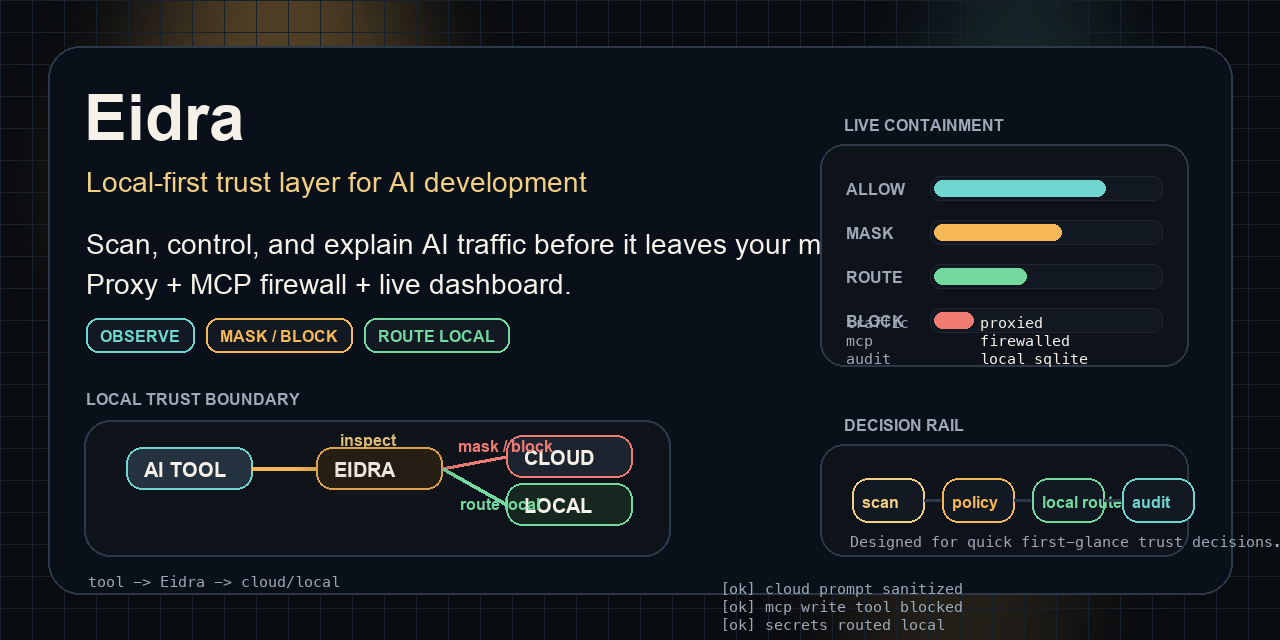
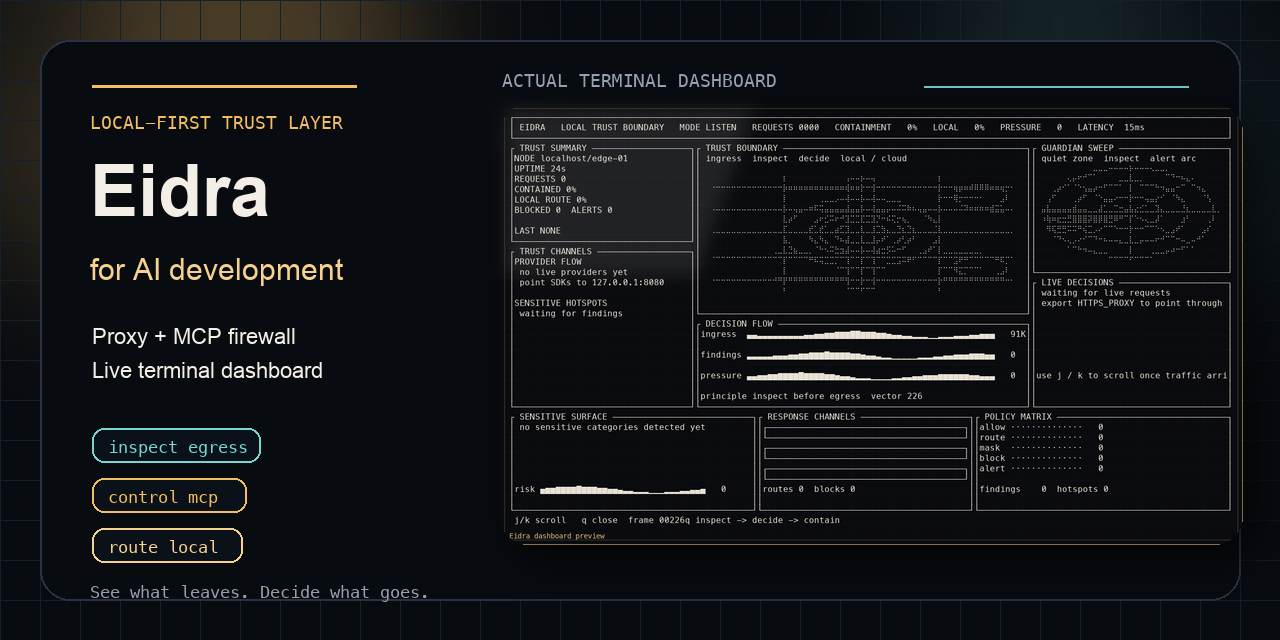
Sanitize example secrets and refresh social preview

Changed region(s): [[0.0, 0.0, 1.0, 1.0]]

diff --git a/scripts/generate_social_preview.py b/scripts/generate_social_preview.py
@@ -3,28 +3,27 @@ from __future__ import annotations
 
 from pathlib import Path
 
-from PIL import Image, ImageDraw, ImageFilter, ImageFont
+from PIL import Image, ImageChops, ImageDraw, ImageFilter, ImageFont, ImageOps
 
 
 ROOT = Path(__file__).resolve().parents[1]
+SOURCE = ROOT / "docs" / "assets" / "social-preview-dashboard.png"
 OUTPUT = ROOT / "docs" / "social-preview.png"
 WIDTH = 1280
 HEIGHT = 640
+
 BG = "#080b10"
-PANEL = "#0e131b"
-PANEL_2 = "#121923"
-BORDER = "#2d3948"
-TEXT = "#f5f1e8"
-MUTED = "#9ea8b6"
-AMBER = "#f6b756"
-AMBER_2 = "#f2cf83"
-TEAL = "#6ed6cf"
-RED = "#ef7b73"
-GREEN = "#74d99f"
+PANEL = "#0b1118"
+BORDER = "#293240"
+TEXT = "#f3efe6"
+MUTED = "#96a1af"
+AMBER = "#f2bd63"
+AMBER_SOFT = "#f6d28e"
+TEAL = "#74d7d2"
 
 
-def load_font(size: int, bold: bool = False, mono: bool = False) -> ImageFont.FreeTypeFont:
-    candidates = []
+def load_font(size: int, *, bold: bool = False, mono: bool = False) -> ImageFont.FreeTypeFont:
+    candidates: list[str] = []
     if mono:
         candidates.extend(
             [
@@ -56,180 +55,126 @@ def load_font(size: int, bold: bool = False, mono: bool = False) -> ImageFont.Fr
     return ImageFont.load_default()
 
 
+def rgba(hex_color: str, alpha: int) -> tuple[int, int, int, int]:
+    hex_color = hex_color.lstrip("#")
+    return tuple(int(hex_color[index : index + 2], 16) for index in (0, 2, 4)) + (alpha,)
+
+
 def rounded_box(draw: ImageDraw.ImageDraw, box, radius, fill, outline=None, width=1):
     draw.rounded_rectangle(box, radius=radius, fill=fill, outline=outline, width=width)
 
 
-def add_glow(base: Image.Image, center: tuple[int, int], radius: int, color: str, alpha: int):
-    glow = Image.new("RGBA", base.size, (0, 0, 0, 0))
-    overlay = ImageDraw.Draw(glow)
+def add_soft_glow(base: Image.Image, center: tuple[int, int], radius: int, color: str, alpha: int):
+    layer = Image.new("RGBA", base.size, (0, 0, 0, 0))
+    overlay = ImageDraw.Draw(layer)
     x, y = center
-    overlay.ellipse(
-        (x - radius, y - radius, x + radius, y + radius),
-        fill=hex_to_rgba(color, alpha),
+    overlay.ellipse((x - radius, y - radius, x + radius, y + radius), fill=rgba(color, alpha))
+    layer = layer.filter(ImageFilter.GaussianBlur(radius=80))
+    base.alpha_composite(layer)
+
+
+def draw_background(base: Image.Image):
+    draw = ImageDraw.Draw(base, "RGBA")
+
+    add_soft_glow(base, (240, 150), 240, AMBER, 70)
+    add_soft_glow(base, (1060, 180), 220, TEAL, 30)
+
+    for x in range(0, WIDTH, 40):
+        draw.line((x, 0, x, HEIGHT), fill=rgba("#14202c", 80), width=1)
+    for y in range(0, HEIGHT, 40):
+        draw.line((0, y, WIDTH, y), fill=rgba("#14202c", 80), width=1)
+
+    outer = (40, 40, WIDTH - 40, HEIGHT - 40)
+    rounded_box(draw, outer, 30, rgba(BG, 220), outline=rgba(BORDER, 255), width=2)
+
+    draw.line((92, 86, 356, 86), fill=rgba(AMBER, 255), width=3)
+    draw.line((924, 86, 1188, 86), fill=rgba(TEAL, 170), width=2)
+
+
+def draw_screenshot(base: Image.Image, screenshot_path: Path):
+    if not screenshot_path.exists():
+        raise FileNotFoundError(f"missing screenshot source: {screenshot_path}")
+
+    screenshot = Image.open(screenshot_path).convert("RGB")
+    screenshot = ImageOps.fit(screenshot, (742, 440), method=Image.Resampling.LANCZOS)
+
+    frame_box = (500, 104, 1242, 544)
+    shadow_box = (516, 120, 1258, 560)
+
+    shadow = Image.new("RGBA", base.size, (0, 0, 0, 0))
+    shadow_draw = ImageDraw.Draw(shadow)
+    shadow_draw.rounded_rectangle(shadow_box, radius=28, fill=rgba("#000000", 160))
+    shadow = shadow.filter(ImageFilter.GaussianBlur(radius=24))
+    base.alpha_composite(shadow)
+
+    frame = Image.new("RGBA", base.size, (0, 0, 0, 0))
+    frame_draw = ImageDraw.Draw(frame)
+    rounded_box(frame_draw, frame_box, 28, rgba(PANEL, 255), outline=rgba(AMBER_SOFT, 130), width=2)
+    base.alpha_composite(frame)
+
+    shot = Image.new("RGBA", base.size, (0, 0, 0, 0))
+    shot.paste(screenshot, (500, 104))
+    mask = Image.new("L", base.size, 0)
+    mask_draw = ImageDraw.Draw(mask)
+    mask_draw.rounded_rectangle(frame_box, radius=28, fill=255)
+    clipped = Image.new("RGBA", base.size, (0, 0, 0, 0))
+    clipped.paste(shot, mask=mask)
+    base.alpha_composite(clipped)
+
+    gloss = Image.new("RGBA", base.size, (0, 0, 0, 0))
+    gloss_draw = ImageDraw.Draw(gloss)
+    gloss_draw.polygon(
+        [(500, 104), (760, 104), (700, 280), (500, 280)],
+        fill=rgba("#ffffff", 24),
     )
-    glow = glow.filter(ImageFilter.GaussianBlur(radius=60))
-    base.alpha_composite(glow)
+    gloss = gloss.filter(ImageFilter.GaussianBlur(radius=10))
+    base.alpha_composite(gloss)
 
 
-def hex_to_rgba(color: str, alpha: int):
-    color = color.lstrip("#")
-    return tuple(int(color[i : i + 2], 16) for i in (0, 2, 4)) + (alpha,)
+def draw_text(base: Image.Image):
+    draw = ImageDraw.Draw(base, "RGBA")
 
+    overline = load_font(18, bold=True, mono=True)
+    title = load_font(72, bold=True)
+    subtitle = load_font(30)
+    support = load_font(22)
+    body = load_font(17, mono=True)
 
-def draw_grid(draw: ImageDraw.ImageDraw):
-    for x in range(0, WIDTH, 32):
-        draw.line((x, 0, x, HEIGHT), fill=hex_to_rgba("#17202b", 100), width=1)
-    for y in range(0, HEIGHT, 32):
-        draw.line((0, y, WIDTH, y), fill=hex_to_rgba("#17202b", 100), width=1)
+    draw.text((90, 112), "LOCAL-FIRST TRUST LAYER", font=overline, fill=AMBER)
+    draw.text((90, 150), "Eidra", font=title, fill=TEXT)
+    draw.text((90, 252), "for AI development", font=subtitle, fill=AMBER_SOFT)
 
-
-def draw_header(draw: ImageDraw.ImageDraw, font_small, font_body, font_title):
-    draw.text((84, 82), "Eidra", font=font_title, fill=TEXT)
-    draw.text(
-        (86, 166),
-        "Local-first trust layer for AI development",
-        font=font_body,
-        fill=AMBER_2,
-    )
-    body = (
-        "Scan, control, and explain AI traffic before it leaves your machine.\n"
-        "Proxy + MCP firewall + live dashboard."
-    )
-    draw.multiline_text((86, 228), body, font=font_body, fill=TEXT, spacing=14)
-
-    badges = [
-        ("OBSERVE", TEAL),
-        ("MASK / BLOCK", AMBER),
-        ("ROUTE LOCAL", GREEN),
+    support_lines = [
+        "Proxy + MCP firewall",
+        "Live terminal dashboard",
     ]
-    x = 86
-    for label, color in badges:
-        w = draw.textlength(label, font=font_small) + 28
-        rounded_box(draw, (x, 318, x + int(w), 352), 12, PANEL_2, outline=color, width=2)
-        draw.text((x + 14, 327), label, font=font_small, fill=color)
-        x += int(w) + 12
+    y = 324
+    for line in support_lines:
+        draw.text((92, y), line, font=support, fill=TEXT)
+        y += 34
 
+    chip_y = 428
+    for label, color, width in [
+        ("inspect egress", TEAL, 168),
+        ("control mcp", AMBER, 154),
+        ("route local", AMBER_SOFT, 150),
+    ]:
+        rounded_box(draw, (92, chip_y, 92 + width, chip_y + 34), 12, rgba(PANEL, 255), outline=rgba(color, 255), width=2)
+        draw.text((108, chip_y + 9), label, font=body, fill=color)
+        chip_y += 50
 
-def draw_panel_labels(draw: ImageDraw.ImageDraw, font_small, font_mono):
-    draw.text((86, 390), "LOCAL TRUST BOUNDARY", font=font_small, fill=MUTED)
-    draw.text((844, 116), "LIVE CONTAINMENT", font=font_small, fill=MUTED)
-    draw.text((844, 416), "DECISION RAIL", font=font_small, fill=MUTED)
-    draw.text((88, 573), "tool -> Eidra -> cloud/local", font=font_mono, fill=MUTED)
-
-
-def draw_flow(base: Image.Image, draw: ImageDraw.ImageDraw, font_label, font_small, font_mono):
-    left = (84, 420, 670, 556)
-    rounded_box(draw, left, 26, PANEL, outline=BORDER, width=2)
-
-    nodes = [
-        ("AI TOOL", 126, 447, "#253240", TEAL),
-        ("EIDRA", 316, 447, "#261d14", AMBER),
-        ("CLOUD", 506, 435, "#1c2430", RED),
-        ("LOCAL", 506, 483, "#15271e", GREEN),
-    ]
-
-    for label, x, y, fill, stroke in nodes:
-        rounded_box(draw, (x, y, x + 126, y + 42), 16, fill, outline=stroke, width=2)
-        draw.text((x + 18, y + 11), label, font=font_label, fill=TEXT)
-
-    draw.line((252, 468, 316, 468), fill=AMBER, width=4)
-    draw.line((442, 468, 506, 456), fill=RED, width=4)
-    draw.line((442, 468, 506, 504), fill=GREEN, width=4)
-    draw.text((340, 431), "inspect", font=font_small, fill=AMBER_2)
-    draw.text((458, 437), "mask / block", font=font_small, fill=RED)
-    draw.text((460, 495), "route local", font=font_small, fill=GREEN)
-
-    log_lines = [
-        "[ok] cloud prompt sanitized",
-        "[ok] mcp write tool blocked",
-        "[ok] secrets routed local",
-    ]
-    log_y = 580
-    for idx, line in enumerate(log_lines):
-        draw.text((720, log_y + idx * 18), line, font=font_mono, fill=MUTED)
-
-    glow = Image.new("RGBA", base.size, (0, 0, 0, 0))
-    glow_draw = ImageDraw.Draw(glow)
-    glow_draw.rounded_rectangle((314, 445, 444, 491), radius=18, outline=hex_to_rgba(AMBER, 180), width=5)
-    glow = glow.filter(ImageFilter.GaussianBlur(10))
-    base.alpha_composite(glow)
-
-
-def draw_dashboard_panel(draw: ImageDraw.ImageDraw, font_small, font_mono):
-    panel = (820, 144, 1188, 366)
-    rounded_box(draw, panel, 24, PANEL, outline=BORDER, width=2)
-
-    bars = [
-        ("allow", 0.78, TEAL),
-        ("mask", 0.58, AMBER),
-        ("route", 0.42, GREEN),
-        ("block", 0.18, RED),
-    ]
-    y = 180
-    for label, ratio, color in bars:
-        draw.text((846, y), label.upper(), font=font_small, fill=MUTED)
-        rounded_box(draw, (930, y - 4, 1162, y + 20), 10, "#111821", outline="#1d2632", width=1)
-        rounded_box(draw, (934, y, 934 + int(220 * ratio), y + 16), 8, color)
-        y += 44
-
-    metrics = [
-        ("traffic", "proxied"),
-        ("mcp", "firewalled"),
-        ("audit", "local sqlite"),
-    ]
-    y = 314
-    for key, value in metrics:
-        draw.text((846, y), key, font=font_mono, fill=MUTED)
-        draw.text((980, y), value, font=font_mono, fill=TEXT)
-        y += 18
-
-
-def draw_rail(draw: ImageDraw.ImageDraw, font_small, font_mono):
-    panel = (820, 444, 1188, 556)
-    rounded_box(draw, panel, 24, PANEL, outline=BORDER, width=2)
-    entries = [
-        ("scan", AMBER_2),
-        ("policy", AMBER),
-        ("local route", GREEN),
-        ("audit", TEAL),
-    ]
-    x = 852
-    for idx, (label, color) in enumerate(entries):
-        if idx:
-            draw.line((x - 18, 500, x - 2, 500), fill=BORDER, width=3)
-        rounded_box(draw, (x, 478, x + 72, 522), 16, PANEL_2, outline=color, width=2)
-        draw.text((x + 10, 493), label, font=font_small, fill=color)
-        x += 90
-    draw.text((850, 533), "Designed for quick first-glance trust decisions.", font=font_mono, fill=MUTED)
+    draw.text((502, 70), "ACTUAL TERMINAL DASHBOARD", font=overline, fill=MUTED)
+    draw.text((90, 582), "See what leaves. Decide what goes.", font=body, fill=MUTED)
 
 
 def main():
-    image = Image.new("RGBA", (WIDTH, HEIGHT), BG)
-    add_glow(image, (280, 190), 220, AMBER, 80)
-    add_glow(image, (1020, 150), 160, TEAL, 40)
-    add_glow(image, (960, 500), 180, AMBER, 30)
-
-    draw = ImageDraw.Draw(image, "RGBA")
-    draw_grid(draw)
-
-    outer = (48, 46, WIDTH - 48, HEIGHT - 46)
-    rounded_box(draw, outer, 32, hex_to_rgba("#091019", 210), outline=hex_to_rgba(BORDER, 255), width=2)
-
-    font_title = load_font(64, bold=True)
-    font_body = load_font(28)
-    font_label = load_font(20, bold=True)
-    font_small = load_font(16, bold=True)
-    font_mono = load_font(15, mono=True)
-
-    draw_header(draw, font_small, font_body, font_title)
-    draw_panel_labels(draw, font_small, font_mono)
-    draw_flow(image, draw, font_label, font_small, font_mono)
-    draw_dashboard_panel(draw, font_small, font_mono)
-    draw_rail(draw, font_small, font_mono)
+    base = Image.new("RGBA", (WIDTH, HEIGHT), BG)
+    draw_background(base)
+    draw_screenshot(base, SOURCE)
+    draw_text(base)
 
     OUTPUT.parent.mkdir(parents=True, exist_ok=True)
-    image.convert("RGB").save(OUTPUT, quality=95)
+    base.convert("RGB").save(OUTPUT, quality=95)
     print(f"wrote {OUTPUT}")
 
 
